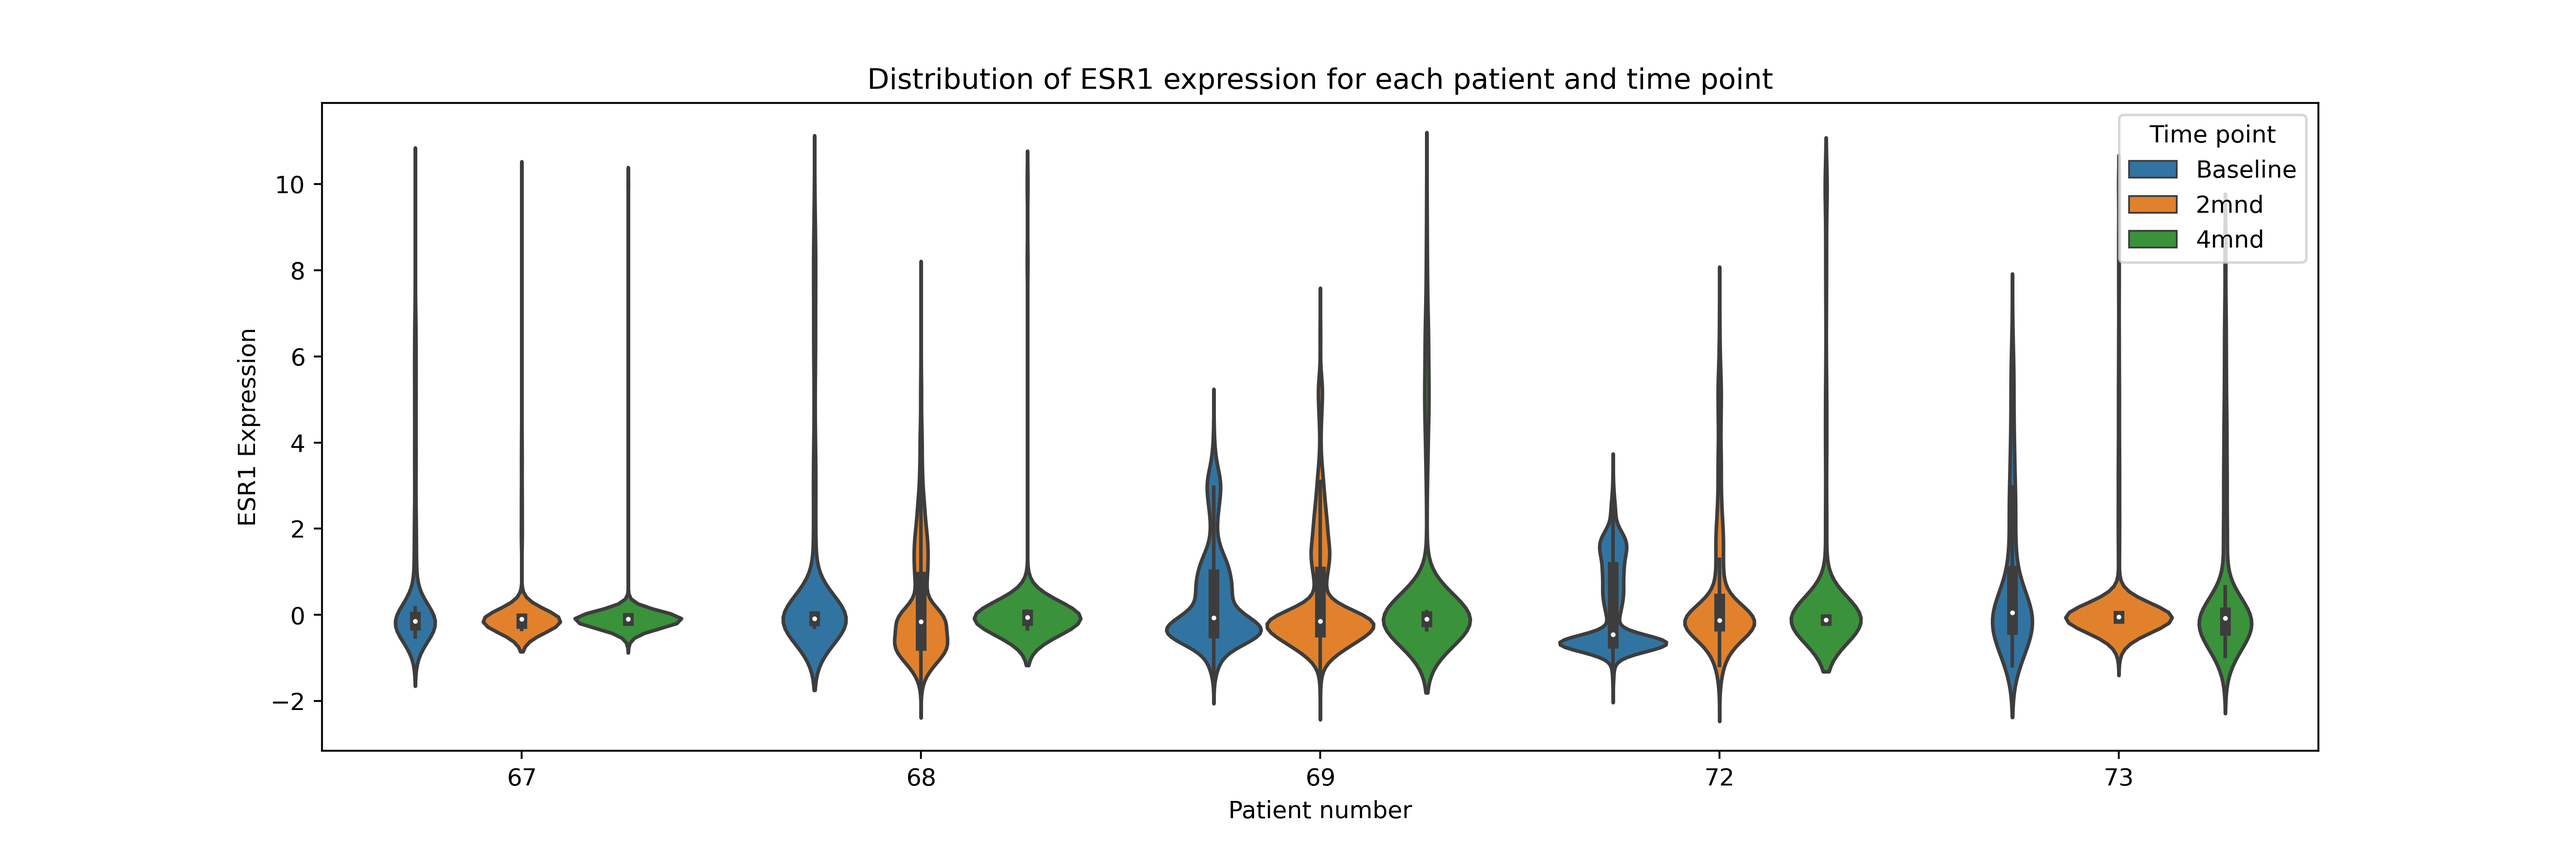
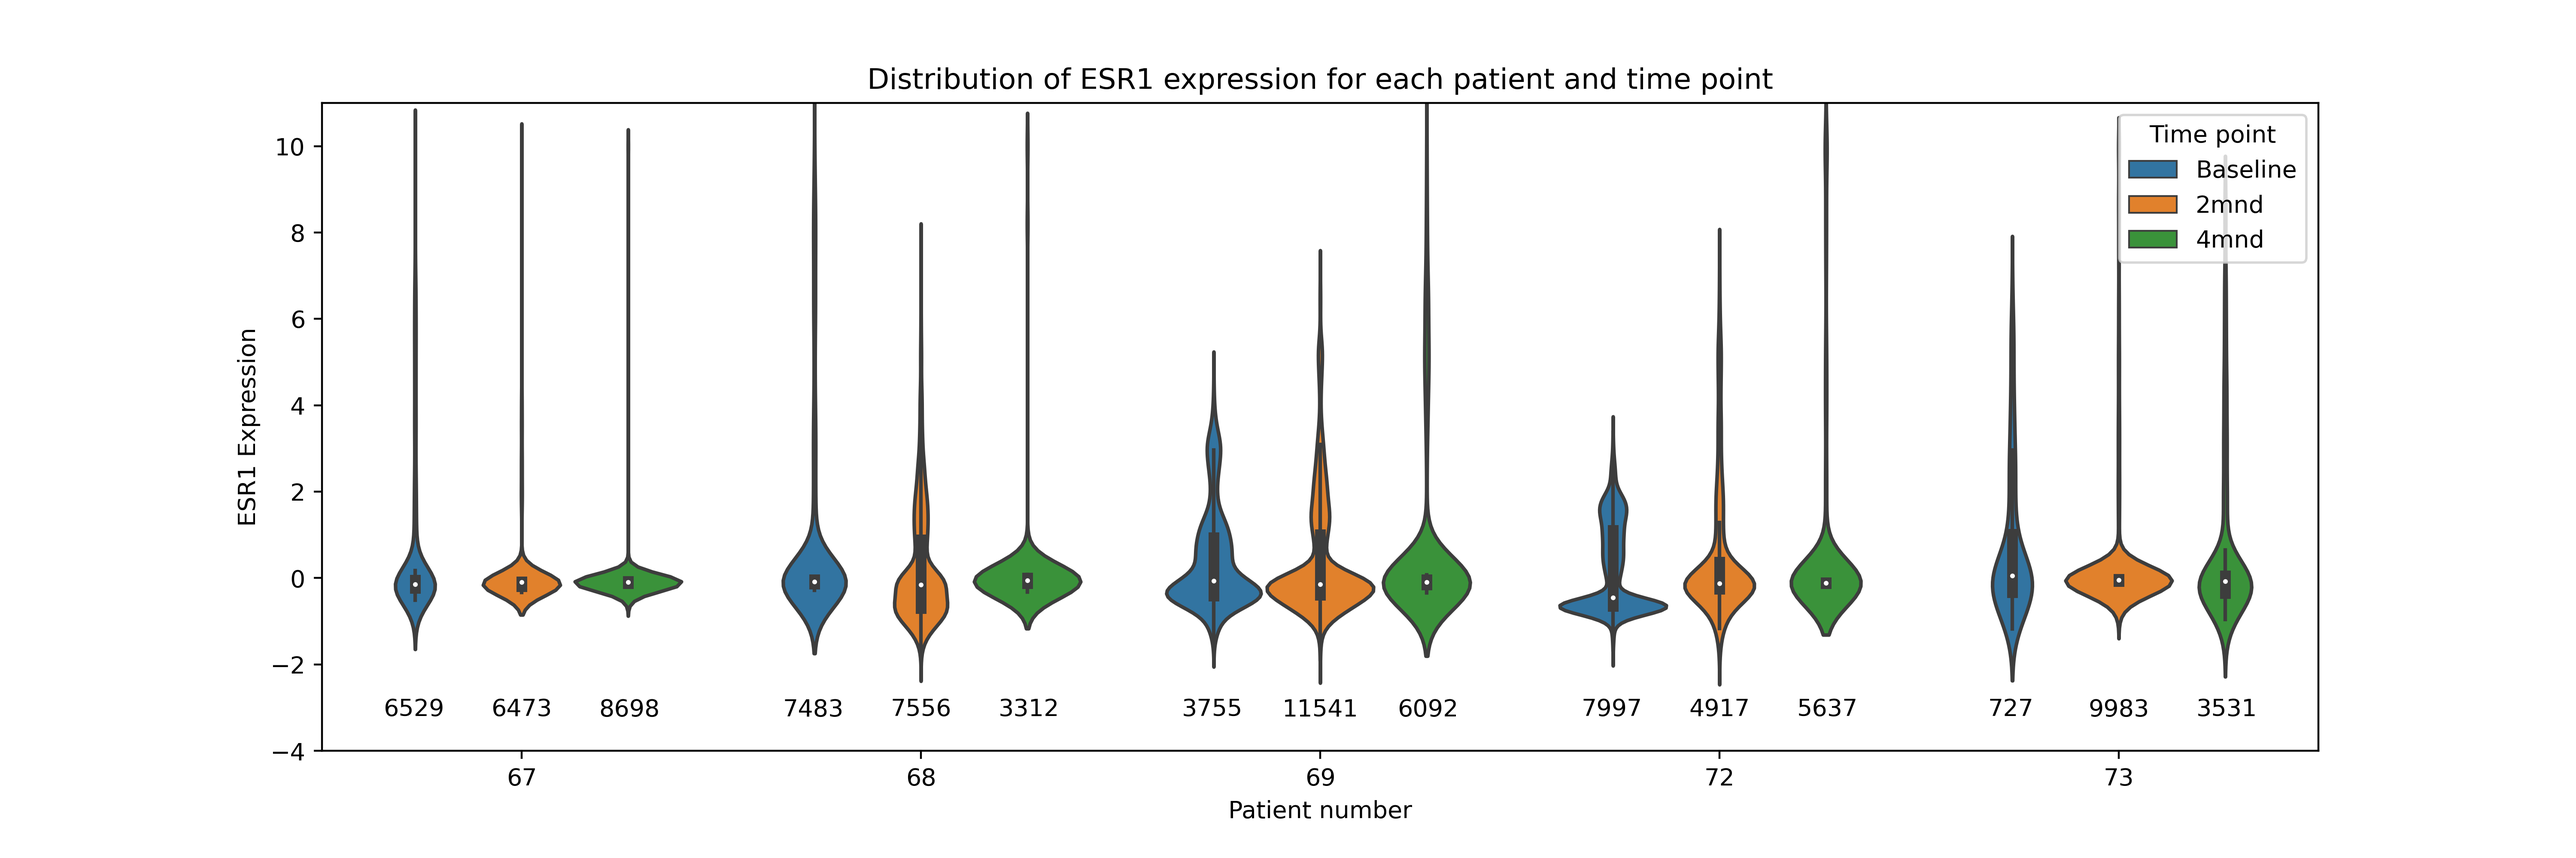
Updated progress report

diff --git a/progress_report.md b/progress_report.md
@@ -33,5 +33,23 @@ Using:
 
 
 ## Data distribution
+Data is more evenly distributed between patients in the NeoLet dataset than the first dataset. 
+Distribution of ESR1 across patients. 
+![ESR1 distribution new dataset](plots/violin_NeoLet.png)
 
-![ESR1 distribution](plots/violin_NeoLet.png)
+In the first dataset patient 54 has the most cells and the most cells that are differentially expressed.
+![ESR1 distribution new dataset](plots/violin_oldset.png)
+
+## Model analysis
+
+To investigate if there is a significant difference between patients we plot the predictions of a model and color them by patient. Patient 53 and 54 represent the majority of the data because they have the most differentially expressed cells.
+
+![Prediction on validation](plots/colored_pred_test.png)
+
+It is hard to see any significant effect of the patient number. However, they seem to be grouped, but this is because the test set here has a random sample where some patients overrepresent in the negatively expressed.
+
+
+### Leaving one patient out
+I have done this on the first dataset with poor results. Below is the training progress with the test set being patient 53 and only considering differentially expressed cells. The minimum is at MSE=1.56 and we have get MSE around 1.0 when we mix the cells together. We also see here how the model overfits to the patients in the training set. 
+
+![Training and test progress for p53](plots/train_prog_pn53.png)
